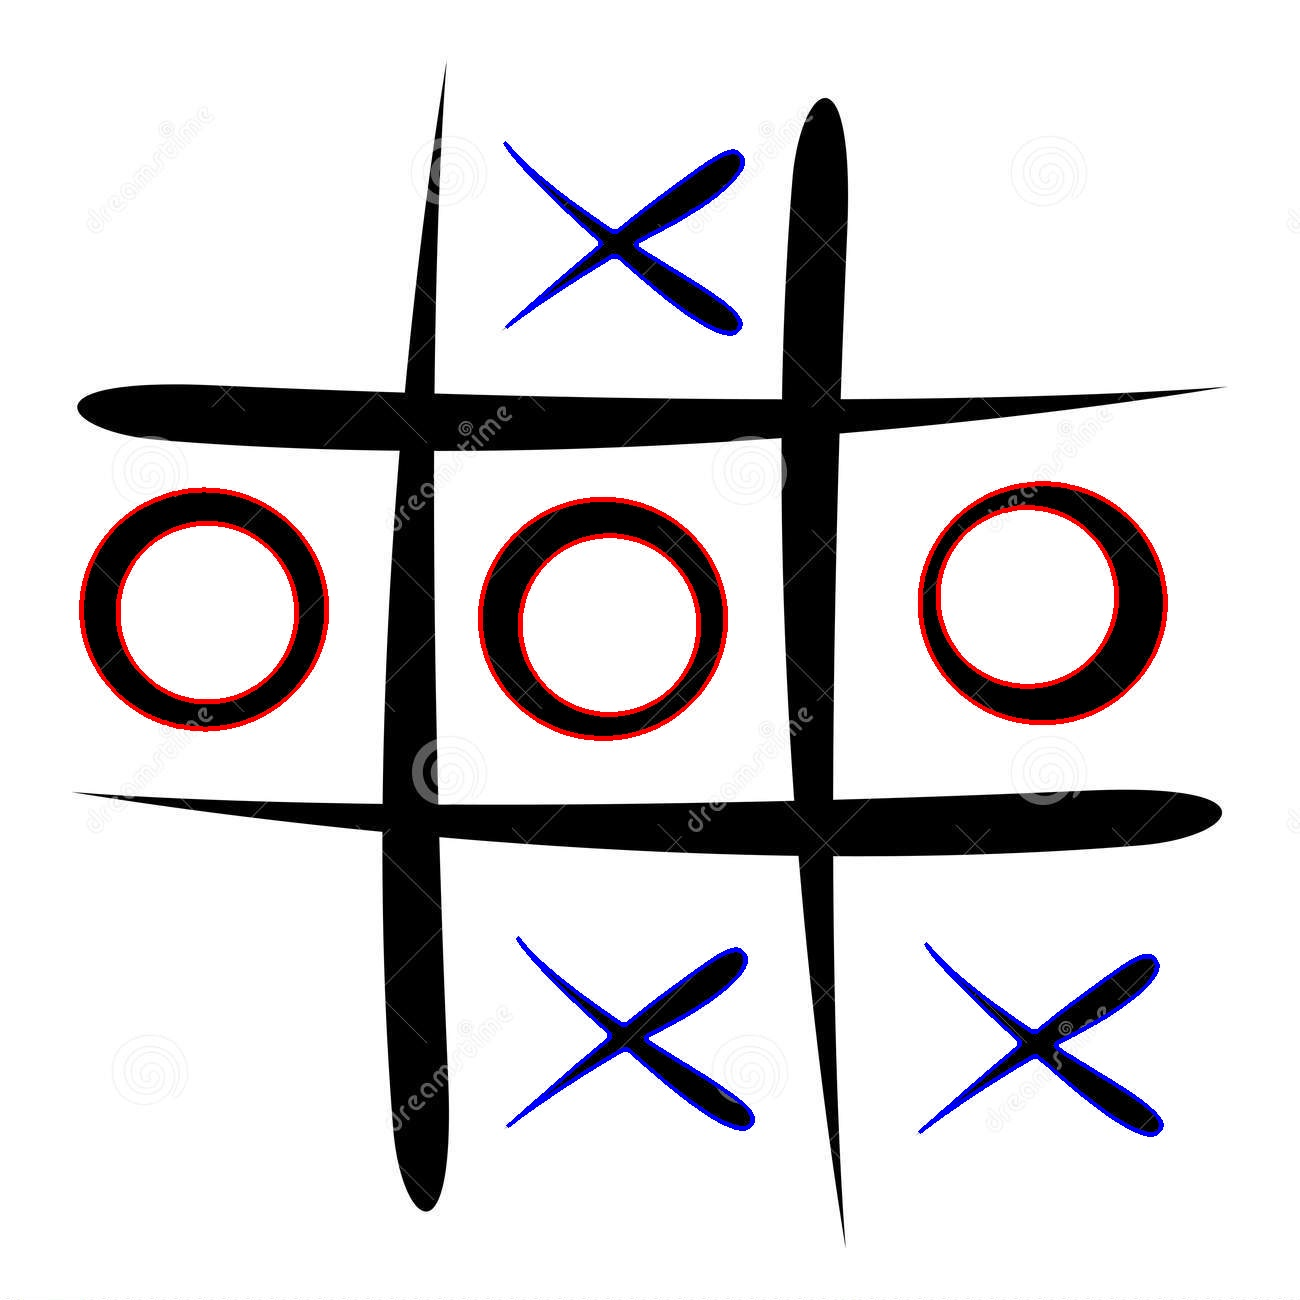
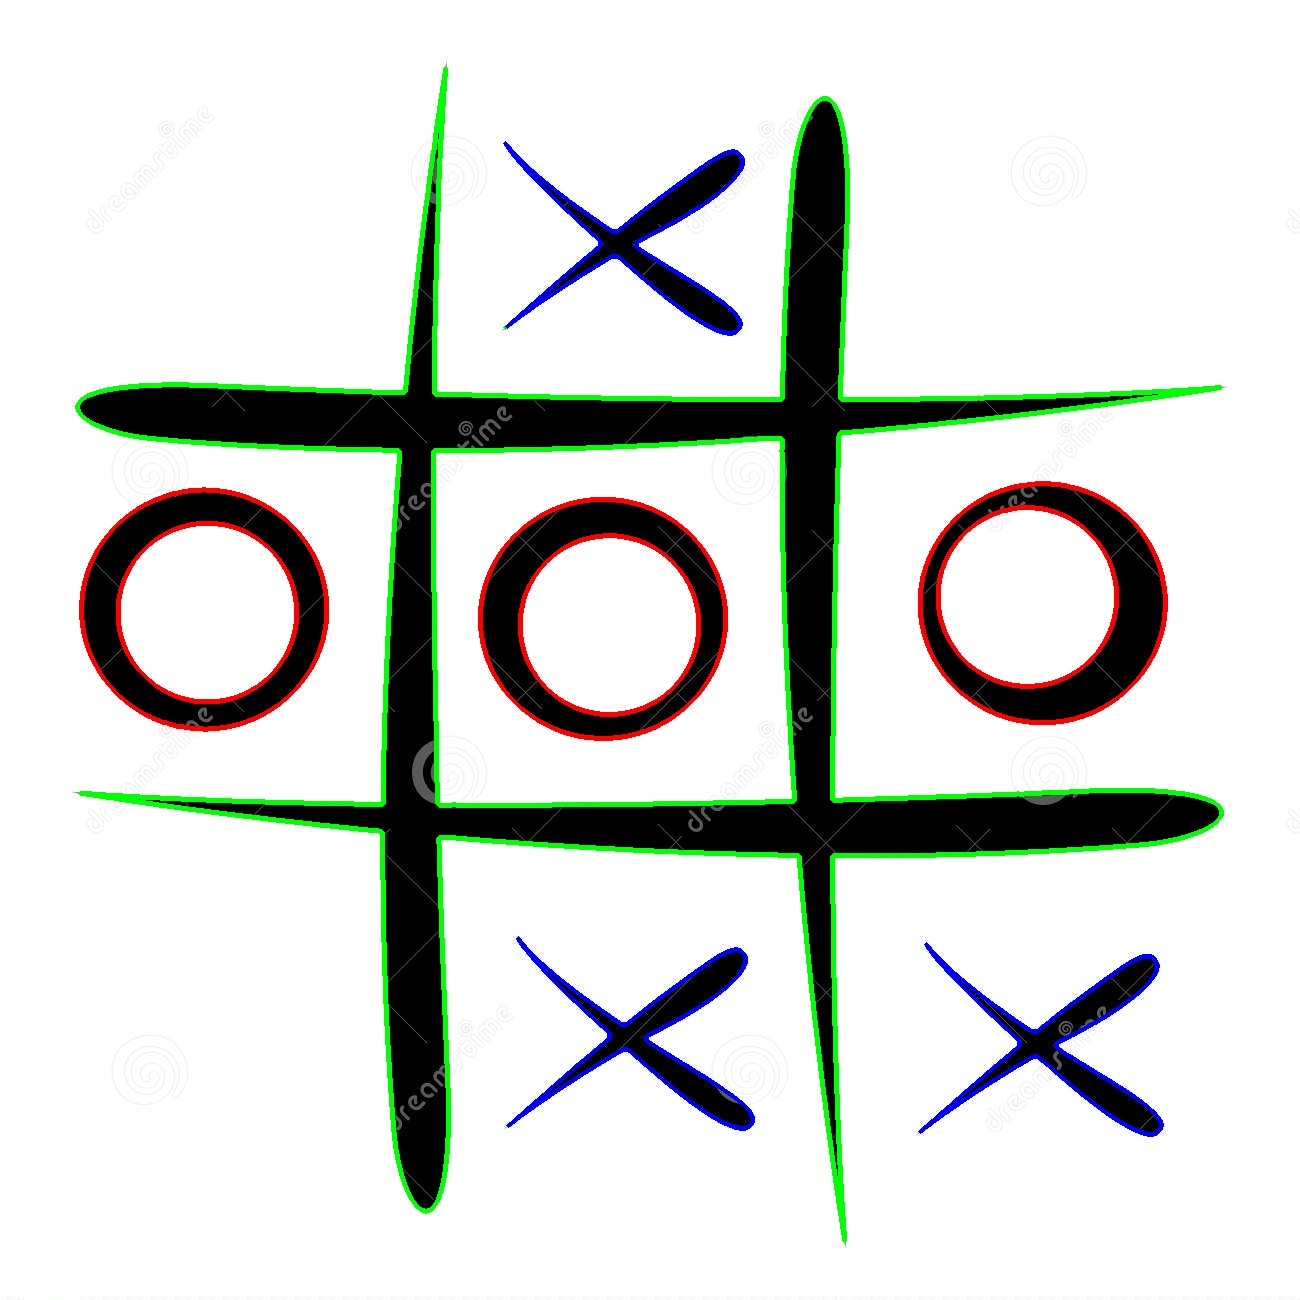
sử dụng distance để detect object

diff --git a/tictactoedetect.py b/tictactoedetect.py
@@ -13,7 +13,8 @@ def preprocess(img_source):
     kernel = cv2.getStructuringElement(cv2.MORPH_RECT, (5, 5))
     binary_img = cv2.morphologyEx(thresh, cv2.MORPH_CLOSE, kernel)
 
-    contours, hierarchy = cv2.findContours(binary_img, cv2.RETR_TREE, cv2.CHAIN_APPROX_SIMPLE)
+    #cv2.CHAIN_APPROX_SIMPLE
+    contours, hierarchy = cv2.findContours(binary_img, cv2.RETR_TREE, cv2.CHAIN_APPROX_NONE)
     return binary_img, contours
 
 
@@ -71,6 +72,8 @@ def new_detect_boards(contours, too_small=0.00):
         res_boards_coords.append(b)
     return res_boards_coords
 
+def get_distance(p1, p2):
+    return math.sqrt((p1[0]-p2[0])**2 + (p1[1] - p2[1])**2)
 
 def print_board_stage(board_stage):
     for i in range(0, len(board_stage)):
@@ -117,9 +120,17 @@ for file_path in allfiles:
     print('Hình ', os.path.basename(file_path), ':')
     index += 1  # iteration counter
 
+
     # detect vunfg
     binary_img, contours = preprocess(image)
+    cv2.imwrite('binary-image/' + os.path.basename(file_path), binary_img)
     boards_data = new_detect_boards(contours, too_small=0.25)
+    contours_image = image
+    print(len(contours))
+    for contour in contours:
+        cv2.drawContours(contours_image, contour, -1, (0, 255, 0), 3)
+
+    cv2.imwrite('contour/' + os.path.basename(file_path), contours_image)
 
     # process contours
     processed_contours = [[] for _ in range(0, len(boards_data) + 1)]  # [[cx, cy, w, h, contours], [], [], ...]
@@ -156,53 +167,30 @@ for file_path in allfiles:
                 continue
             if pc[2] > boards_data[board_pc][2] * max_size or pc[3] > boards_data[board_pc][3] * max_size:
                 continue
-            # calculate angle intervals
-            angle_probes = 45
-            angle_segment = [0 for _ in range(0, angle_probes)]
+            canO = True
             for point in pc[4]:
-                point1 = [point[0][0], point[0][1]]
-                point2 = [pc[0], pc[1]]
-                # if possible...
-                # x - center_x
-                dx = point[0][0] - pc[0]
-                if dx == 0:
-                    continue
-                dy = point[0][1] - pc[1]
-                # ..calculate atan and convert into degree measure
-                rad_angle = math.atan(dy / dx) * 180 / math.pi
-                if dx < 0 > dy:
-                    rad_angle = 270 - rad_angle
-                if dx < 0 <= dy:
-                    rad_angle = 270 - rad_angle
-                if dx >= 0 > dy:
-                    rad_angle = 90 - rad_angle
-                if dx >= 0 <= dy:
-                    rad_angle = 90 - rad_angle
-                angle_segment[int(rad_angle / (360 / angle_probes))] += 1
-
-            object_avg = sum(angle_segment) / len(angle_segment)
-            variance = 0
-            for i in angle_segment:
-                variance += (i - object_avg) ** 2
-            variance = float(variance) / (len(angle_segment))
-            # each object gets new field - variance
-            pc.append(variance)
+                if canO:
+                    point1 = [point[0][0], point[0][1]]
+                    point2 = [pc[0], pc[1]]
+                    dis = get_distance(point1, point2)
+                    if (dis < (pc[3] * 0.2)):
+                        canO = False
+            pc.append(canO)
             # and the entire object is put into new list
             detected_objects[board_pc].append(pc)
 
     # begin board calculations
     for ind, board in zip(range(0, len(detected_objects)), detected_objects):
         # plot and decide board state
-        not_dynamic_anymore_threshold = sum([c[5] for c in board]) / len(board) - 1
         board_state = [['_', '_', '_'], ['_', '_', '_'], ['_', '_', '_']]
         for c in board:
-            if c[5] >= not_dynamic_anymore_threshold:
-                mark = 'X'
-                cv2.drawContours(image, [c[4]], 0, (255, 0, 0), 3)
-            else:
+            if c[5]:
                 mark = 'O'
                 cv2.drawContours(image, [c[4]], 0, (0, 0, 255), 3)
-            print("\n\n")
+            else:
+                mark = 'X'
+                cv2.drawContours(image, [c[4]], 0, (255, 0, 0), 3)
+
             # read the logical position form the physical position in an image
             x_diff = boards_data[ind][0] - c[0]
             y_diff = boards_data[ind][1] - c[1]

diff --git a/realtimedetect.py b/realtimedetect.py
@@ -2,15 +2,14 @@ import glob as glob
 import cv2
 import matplotlib.pyplot as plt
 from scipy import math
-import numpy as np
-
 
 def preprocess(img_source):
     gray_img = cv2.cvtColor(img_source, cv2.COLOR_BGR2GRAY)
     (_, thresh) = cv2.threshold(gray_img, 0, 255, cv2.THRESH_BINARY_INV | cv2.THRESH_OTSU)
     kernel = cv2.getStructuringElement(cv2.MORPH_RECT, (5, 5))
     binary_img = cv2.morphologyEx(thresh, cv2.MORPH_CLOSE, kernel)
-    contours, hierarchy = cv2.findContours(binary_img, cv2.RETR_TREE, cv2.CHAIN_APPROX_SIMPLE)
+    # cv2.CHAIN_APPROX_SIMPLE
+    contours, hierarchy = cv2.findContours(binary_img, cv2.RETR_TREE, cv2.CHAIN_APPROX_NONE)
     return binary_img, contours
 
 
@@ -68,6 +67,8 @@ def new_detect_boards(contours, too_small=0.00):
         res_boards_coords.append(b)
     return res_boards_coords
 
+def get_distance(p1, p2):
+    return math.sqrt((p1[0]-p2[0])**2 + (p1[1] - p2[1])**2)
 
 def print_board_stage(board_stage):
     for i in range(0, len(board_stage)):
@@ -154,35 +155,18 @@ while (True):
                 continue
             if pc[2] > boards_data[board_pc][2] * max_size or pc[3] > boards_data[board_pc][3] * max_size:
                 continue
-            # calculate angle intervals
-            angle_probes = 45
-            angle_segment = [0 for _ in range(0, angle_probes)]
+
+            canO = True
             for point in pc[4]:
-                # if possible...
-                # x of point - center_x of object
-                dx = point[0][0] - pc[0]
-                if dx == 0:
-                    continue
-                # y of point - y of object
-                dy = point[0][1] - pc[1]
-                # ..calculate atan and convert into degree measure
-                rad_angle = math.atan(dy / dx) * 180 / math.pi
-                if dx < 0 > dy:
-                    rad_angle = 270 - rad_angle
-                if dx < 0 <= dy:
-                    rad_angle = 270 - rad_angle
-                if dx >= 0 > dy:
-                    rad_angle = 90 - rad_angle
-                if dx >= 0 <= dy:
-                    rad_angle = 90 - rad_angle
-                angle_segment[int(rad_angle / (360 / angle_probes))] += 1
-            object_avg = sum(angle_segment) / len(angle_segment)
-            variance = 0
-            for i in angle_segment:
-                variance += (i - object_avg) ** 2
-            variance = float(variance) / (len(angle_segment))
-            # each object gets new field - variance
-            pc.append(variance)
+                # nếu là O thì khoảng cách giữa các điểm của contour luôn > 0.2 * kích thước contour
+                if canO:
+                    point1 = [point[0][0], point[0][1]]
+                    point2 = [pc[0], pc[1]]
+                    dis = get_distance(point1, point2)
+                    if (dis < (pc[3] * 0.2)):
+                        canO = False
+            pc.append(canO)
+
             # and the entire object is put into new list
             detected_objects[board_pc].append(pc)
 
@@ -190,17 +174,16 @@ while (True):
     board = detected_objects[0]
     # plot and decide board state
     if (len(board) > 0 and boards_data[0][2] / boards_data[0][3] < 1.3):
-        not_dynamic_anymore_threshold = sum([c[5] for c in board]) / len(board) - 1
         board_state = [['_', '_', '_'], ['_', '_', '_'], ['_', '_', '_']]
         for c in board:
             xarr = [point[0][0] for point in c[4]]
             yarr = [point[0][1] for point in c[4]]
-            if c[5] >= not_dynamic_anymore_threshold:
-                mark = 'X'
-                cv2.drawContours(image, [c[4]], 0, (255, 0, 0), 3)
-            else:
+            if c[5]:
                 mark = 'O'
                 cv2.drawContours(image, [c[4]], 0, (0, 0, 255), 3)
+            else:
+                mark = 'X'
+                cv2.drawContours(image, [c[4]], 0, (255, 0, 0), 3)
             # read the logical position form the physical position in an image
             x_diff = boards_data[0][0] - c[0]
             y_diff = boards_data[0][1] - c[1]
